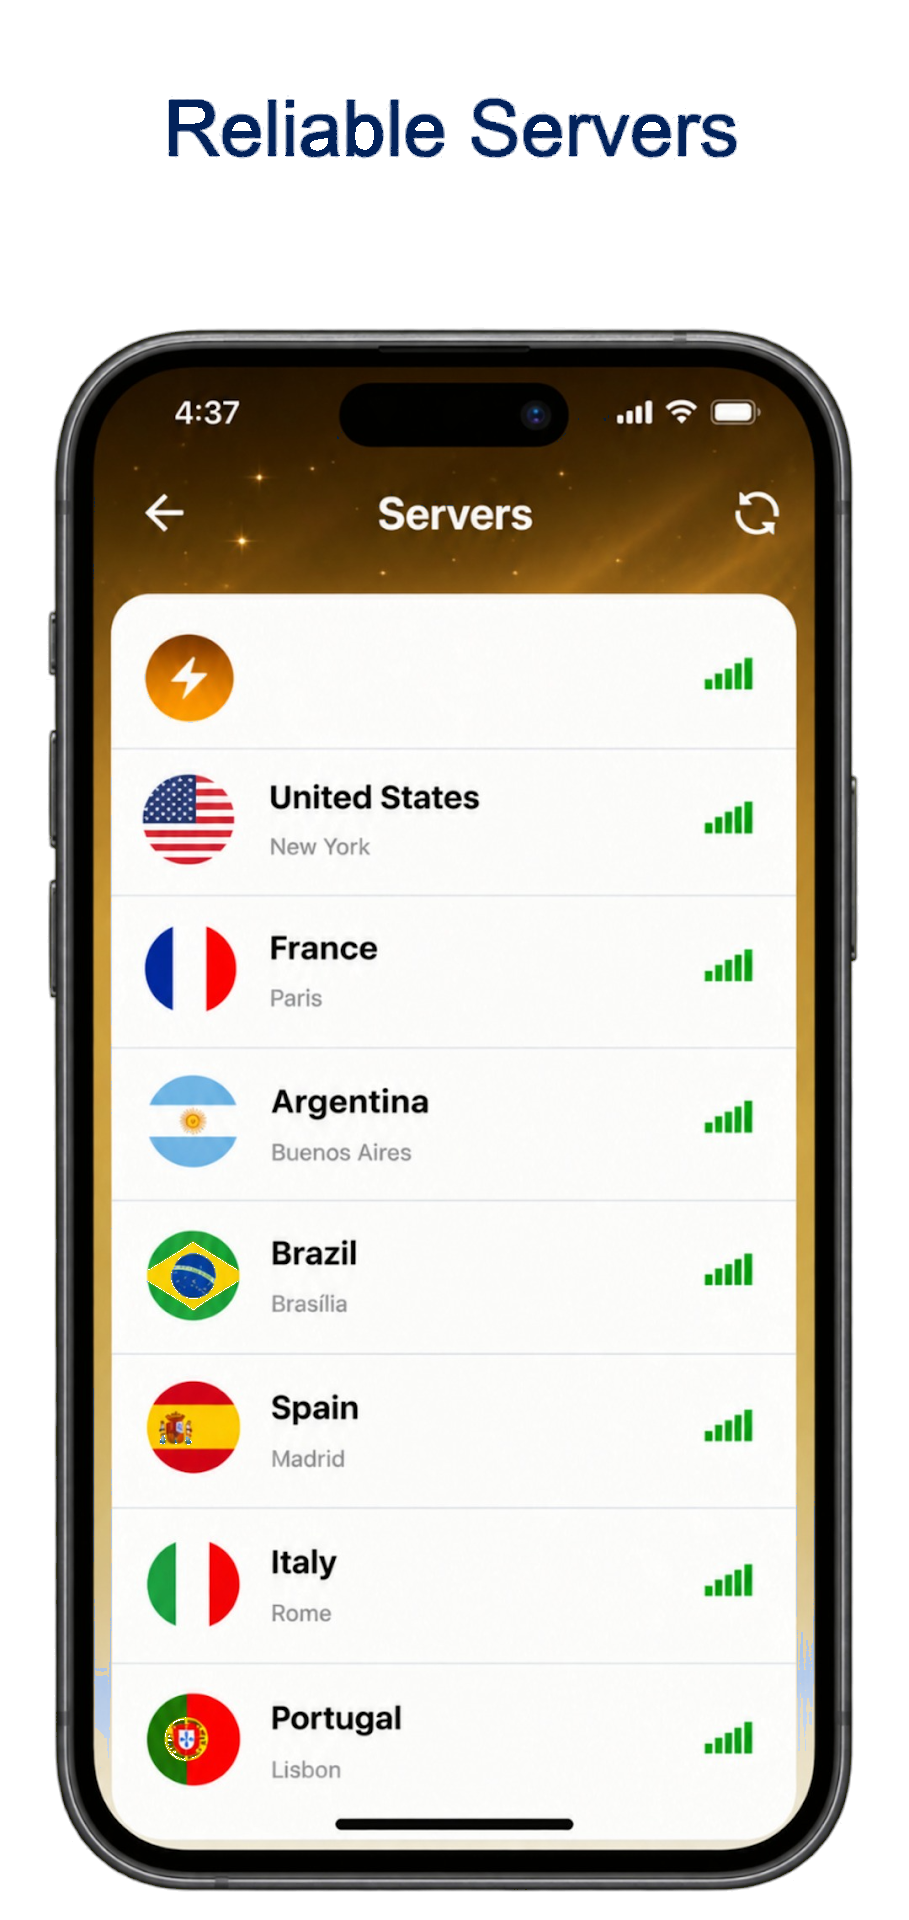
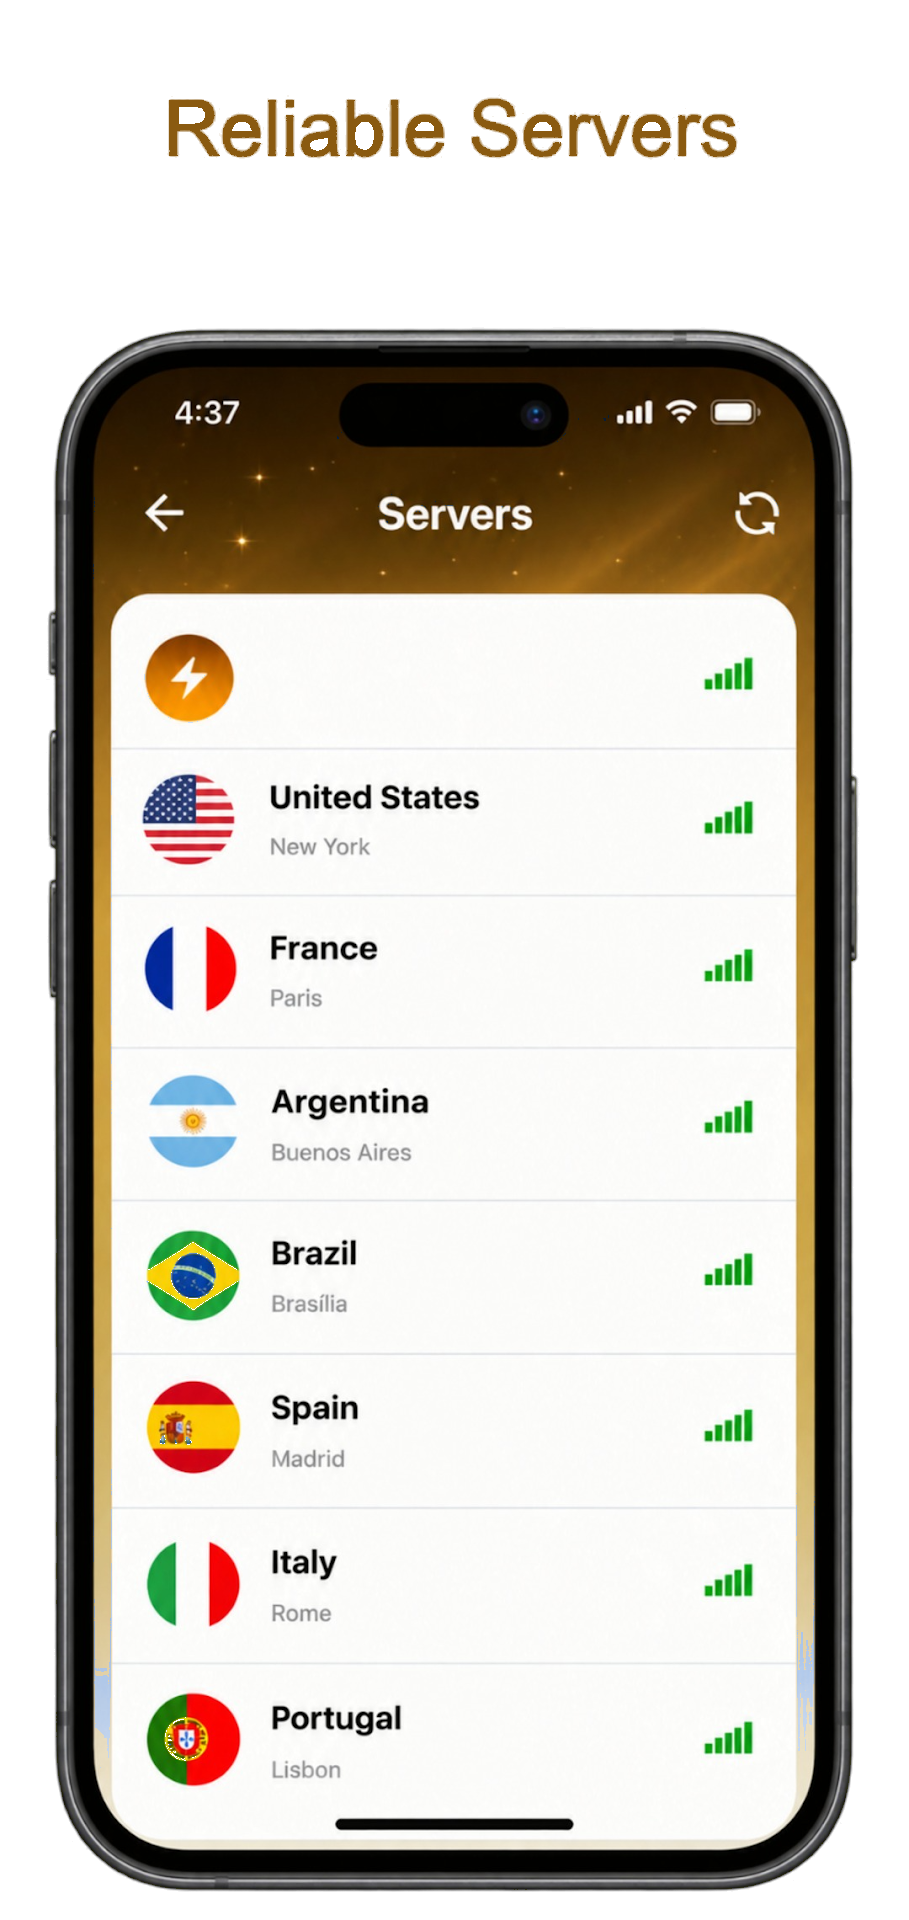
color updated

Changed region(s): [[0.1848, 0.0312, 0.4928, 0.0938], [0.5237, 0.0312, 0.8317, 0.0938]]

diff --git a/css/style.css b/css/style.css
@@ -1,14 +1,17 @@
 @import url("https://fonts.googleapis.com/css?family=Lora:400,400i|Open+Sans:300,400,600,700,800");
 
 :root {
-  --primary: #2e7eed;
-  --primary-dark: #1d6ad4;
-  --ink: #000;
-  --muted: #808080;
-  --line: #eeeeee;
-  --paper: #fff;
-  --gray: #fafafa;
-  --footer: #1a1b1f;
+  --primary: #e39b12;
+  --primary-dark: #c4840a;
+  --on-primary: #141313;
+  --link: #8a5a10;
+  --ink: #141313;
+  --muted: #6f675f;
+  --line: #efe6d6;
+  --paper: #fffdf8;
+  --gray: #f7f1e6;
+  --footer: #12100e;
+  --tint: #f8edd4;
   --shadow: 0 7px 20px 0 rgba(0, 0, 0, 0.08);
   --header-h: 78px;
   --font: "Open Sans", "Segoe UI", sans-serif;
@@ -28,7 +31,7 @@ body {
 }
 img, svg { max-width: 100%; display: block; }
 a { color: inherit; text-decoration: none; }
-a:hover { color: var(--primary); }
+a:hover { color: var(--link); }
 button, input, select, textarea { font: inherit; }
 button { cursor: pointer; }
 h1, h2, h3, h4, h5, h6 {
@@ -91,8 +94,8 @@ ul { margin: 0; padding: 0; list-style: none; }
 }
 .nav-links > li > a:hover,
 .nav-links > li > button:hover,
-.nav-links > li > a.active { color: var(--primary); }
-.nav-links > li > a.active { box-shadow: inset 0 2px 0 var(--primary); }
+.nav-links > li > a.active { color: var(--link); }
+.nav-links > li > a.active { box-shadow: inset 0 2px 0 var(--link); }
 .caret { font-size: 0.7em; margin-left: 4px; }
 .pill {
   border: 1px solid #e6e6e6 !important;
@@ -121,7 +124,7 @@ ul { margin: 0; padding: 0; list-style: none; }
   font-size: 13px;
   font-weight: 600;
 }
-.dropdown a:hover { color: var(--primary); background: transparent; }
+.dropdown a:hover { color: var(--link); background: transparent; }
 .mega {
   display: none;
   width: min(760px, 78vw);
@@ -162,7 +165,7 @@ ul { margin: 0; padding: 0; list-style: none; }
   width: 200%;
   height: 200%;
   border-radius: 50%;
-  background-image: linear-gradient(45deg, #009ec5 0%, #2e7eed 20%, #02225b 50%);
+  background-image: linear-gradient(45deg, #e39b12 0%, #6a3e08 18%, #14110e 52%);
   z-index: 0;
 }
 .hero::before { animation: hero-drift 32s ease-in-out infinite alternate; }
@@ -176,7 +179,7 @@ ul { margin: 0; padding: 0; list-style: none; }
   height: 52vw;
   border-radius: 50%;
   pointer-events: none;
-  background: radial-gradient(circle, rgba(0, 158, 197, 0.42), rgba(46, 126, 237, 0) 68%);
+  background: radial-gradient(circle, rgba(227, 155, 18, 0.48), rgba(106, 62, 8, 0) 68%);
   animation: glow-drift 16s ease-in-out infinite alternate;
 }
 .hero-routes {
@@ -257,11 +260,11 @@ ul { margin: 0; padding: 0; list-style: none; }
   align-items: center;
   justify-content: center;
   background: var(--primary);
-  color: #fff;
+  color: var(--on-primary);
 }
-.btn:hover { background: var(--primary-dark); color: #fff; }
-.btn-ghost { background: #fff; color: var(--primary); border: 1px solid var(--primary); }
-.btn-ghost:hover { background: #f3f8ff; color: var(--primary); }
+.btn:hover { background: var(--primary-dark); color: var(--on-primary); }
+.btn-ghost { background: #fff; color: var(--link); border: 1px solid var(--link); }
+.btn-ghost:hover { background: var(--tint); color: var(--link); }
 .signup-row .btn { border-radius: 0; min-width: 160px; }
 .fine, .form-error { font-size: 13px; }
 .fine { color: rgba(255, 255, 255, 0.8); margin-top: 10px; }
@@ -298,14 +301,14 @@ ul { margin: 0; padding: 0; list-style: none; }
   padding: 10px;
   box-shadow: 0 20px 40px rgba(0, 0, 0, 0.25);
 }
-.phone-ui { background: #16315f; border-radius: 18px; padding: 18px 12px; color: #fff; text-align: center; }
+.phone-ui { background: #24180c; border-radius: 18px; padding: 18px 12px; color: #fff; text-align: center; }
 .phone-ui strong { font-weight: 600; }
 .toggle {
   margin: 14px auto;
   width: 74px;
   height: 32px;
   border-radius: 999px;
-  background: #2e7eed;
+  background: var(--primary);
   display: flex;
   align-items: center;
   justify-content: flex-end;
@@ -320,7 +323,7 @@ ul { margin: 0; padding: 0; list-style: none; }
 .os-row a { color: rgba(255,255,255,0.9); display: grid; justify-items: center; gap: 4px; font-size: 11px; }
 .os-row a:hover { color: #fff; }
 .os-row svg { width: 26px; height: 26px; }
-.os-row.dark a { color: #808080; }
+.os-row.dark a { color: var(--muted); }
 .os-row.dark { justify-content: flex-start; }
 
 .seen { background: #fff; padding: 28px 0 8px; text-align: center; }
@@ -335,7 +338,7 @@ ul { margin: 0; padding: 0; list-style: none; }
 .why-grid, .plan-grid, .review-grid, .card-grid, .post-grid { display: grid; gap: 24px; }
 .why-grid { grid-template-columns: repeat(4, 1fr); margin-top: 10px; text-align: center; }
 .why-grid p, .muted, .kicker { color: var(--muted); }
-.icon-bubble { width: 72px; height: 72px; margin: 0 auto 8px; color: var(--primary); }
+.icon-bubble { width: 72px; height: 72px; margin: 0 auto 8px; color: var(--link); }
 .info-row { display: grid; grid-template-columns: 1fr 1fr; gap: 22px; margin-top: 48px; }
 .info-card {
   background: #fff;
@@ -347,7 +350,7 @@ ul { margin: 0; padding: 0; list-style: none; }
   align-items: center;
 }
 .info-card h3 { margin-bottom: 6px; }
-.text-link { color: var(--primary); font-weight: 600; }
+.text-link { color: var(--link); font-weight: 600; }
 .text-link:hover { color: var(--primary-dark); }
 .links-inline { display: flex; flex-wrap: wrap; gap: 8px 14px; }
 .play {
@@ -362,7 +365,7 @@ ul { margin: 0; padding: 0; list-style: none; }
 .perk-grid { display: grid; grid-template-columns: repeat(5, 1fr); gap: 22px 12px; }
 .perk-grid.three { grid-template-columns: repeat(3, minmax(140px, 220px)); justify-content: center; margin-top: 22px; }
 .perk { display: grid; justify-items: center; gap: 8px; font-weight: 600; color: #333; font-size: 14px; }
-.perk svg { width: 36px; height: 36px; color: var(--primary); }
+.perk svg { width: 36px; height: 36px; color: var(--link); }
 .perk-form { max-width: 560px; margin: 32px auto 0; }
 .perks .fine { color: var(--muted); }
 
@@ -383,9 +386,9 @@ ul { margin: 0; padding: 0; list-style: none; }
 .map-card svg { width: 100%; height: auto; }
 .device-cluster { position: relative; min-height: 280px; }
 .green-laptop, .mini-phone, .tower, .pad { position: absolute; border-radius: 8px; box-shadow: var(--shadow); }
-.green-laptop { width: 320px; height: 190px; left: 30px; top: 40px; background: #2e7eed; display: grid; place-items: center; color: #fff; }
+.green-laptop { width: 320px; height: 190px; left: 30px; top: 40px; background: var(--primary); display: grid; place-items: center; color: var(--on-primary); }
 .lock-screen { text-align: center; font-weight: 600; }
-.mini-phone { width: 90px; height: 160px; left: 0; top: 80px; background: #16315f; color: #fff; padding: 10px; font-size: 12px; }
+.mini-phone { width: 90px; height: 160px; left: 0; top: 80px; background: #24180c; color: #fff; padding: 10px; font-size: 12px; }
 .tower { width: 64px; height: 160px; right: 70px; top: 30px; background: linear-gradient(#fff, #ececec); }
 .pad { width: 100px; height: 64px; right: 24px; bottom: 30px; background: #f7f7f7; border: 6px solid #e5e5e5; }
 
@@ -400,7 +403,7 @@ ul { margin: 0; padding: 0; list-style: none; }
 .review-grid { grid-template-columns: repeat(3, 1fr); margin-top: 20px; }
 .review-card { background: #fff; border-radius: 4px; box-shadow: var(--shadow); padding: 20px; min-height: 180px; display: flex; flex-direction: column; }
 .review-top { display: flex; justify-content: space-between; font-weight: 600; color: #161616; }
-.stars { color: var(--primary); letter-spacing: 2px; }
+.stars { color: var(--link); letter-spacing: 2px; }
 .review-card p { flex: 1; font-family: var(--serif); font-style: italic; color: #888; }
 .who { font-size: 14px; color: #161616; }
 .reviews .text-link { display: inline-block; margin-top: 22px; }
@@ -418,14 +421,14 @@ ul { margin: 0; padding: 0; list-style: none; }
 .price-card { background: #fff; border-radius: 4px; box-shadow: var(--shadow); text-align: center; padding: 28px 22px; position: relative; }
 .badge {
   position: absolute; top: -12px; left: 50%; transform: translateX(-50%);
-  background: var(--primary); color: #fff; font-size: 11px; letter-spacing: 0.08em;
+  background: var(--primary); color: var(--on-primary); font-size: 11px; letter-spacing: 0.08em;
   padding: 5px 10px; border-radius: 3px; font-weight: 700;
 }
-.amount { font-size: 48px; font-weight: 300; color: var(--primary); line-height: 1; }
+.amount { font-size: 48px; font-weight: 300; color: var(--link); line-height: 1; }
 .per { color: #999; letter-spacing: 0.08em; font-size: 12px; font-weight: 700; margin: 6px 0 14px; }
 .price-card hr { border: 0; border-top: 1px solid var(--line); }
 .was { color: #aaa; text-decoration: line-through; }
-.now { color: var(--primary); font-weight: 700; }
+.now { color: var(--link); font-weight: 700; }
 .price-card .btn { width: min(200px, 100%); margin-top: 16px; }
 .price-card.span { grid-column: 1 / -1; width: min(340px, 100%); justify-self: center; }
 .deco { display: none; }
@@ -437,7 +440,7 @@ ul { margin: 0; padding: 0; list-style: none; }
 .site-footer a:hover { color: #fff; }
 .legal-row {
   display: flex; justify-content: space-between; gap: 16px; flex-wrap: wrap;
-  border-top: 1px solid #2c2d31; margin-top: 28px; padding-top: 16px; align-items: center;
+  border-top: 1px solid #2a241c; margin-top: 28px; padding-top: 16px; align-items: center;
 }
 .pays { display: flex; gap: 8px; flex-wrap: wrap; margin-top: 8px; }
 .pays span { background: #3f3f43; color: #fff; border-radius: 3px; padding: 4px 8px; font-size: 12px; font-weight: 700; }
@@ -446,22 +449,22 @@ ul { margin: 0; padding: 0; list-style: none; }
 .chat-launcher {
   position: fixed; right: 18px; bottom: 18px; z-index: 45;
   width: 54px; height: 54px; border-radius: 50%; border: 0;
-  background: var(--primary); color: #fff; font-size: 22px;
-  box-shadow: 0 8px 18px rgba(46, 126, 237, 0.35);
+  background: var(--primary); color: var(--on-primary); font-size: 22px;
+  box-shadow: 0 8px 18px rgba(227, 155, 18, 0.35);
 }
 .chat-panel {
   position: fixed; right: 18px; bottom: 84px; width: min(340px, calc(100% - 24px));
   background: #fff; border-radius: 4px; box-shadow: var(--shadow); z-index: 45; overflow: hidden;
 }
 .chat-panel header, .modal-card header { display: flex; justify-content: space-between; align-items: center; }
-.chat-panel header { background: #1a1b1f; color: #fff; padding: 12px 14px; }
+.chat-panel header { background: var(--footer); color: #fff; padding: 12px 14px; }
 .chat-panel header button, #video-close { background: transparent; border: 0; color: inherit; font-size: 20px; }
 .chat-log { padding: 12px; display: grid; gap: 8px; max-height: 260px; overflow: auto; }
 .bubble { background: var(--gray); border-radius: 4px; padding: 8px 10px; color: #333; }
-.bubble.me { background: #e7f1ff; justify-self: end; }
+.bubble.me { background: var(--tint); justify-self: end; }
 .chat-form { display: flex; border-top: 1px solid var(--line); }
 .chat-form input { flex: 1; border: 0; padding: 12px; outline: none; }
-.chat-form button { border: 0; background: var(--primary); color: #fff; padding: 0 14px; font-weight: 700; }
+.chat-form button { border: 0; background: var(--primary); color: var(--on-primary); padding: 0 14px; font-weight: 700; }
 .cookie {
   position: fixed; right: 18px; bottom: 84px; z-index: 44;
   width: min(320px, calc(100% - 32px));
@@ -473,7 +476,7 @@ ul { margin: 0; padding: 0; list-style: none; }
 .modal-card { background: #fff; width: min(680px, 100%); padding: 22px; border-radius: 4px; }
 .steps { display: grid; grid-template-columns: repeat(3, 1fr); gap: 12px; margin-top: 12px; }
 .step { background: var(--gray); padding: 14px; min-height: 130px; }
-.step strong { color: var(--primary); display: block; margin-bottom: 6px; }
+.step strong { color: var(--link); display: block; margin-bottom: 6px; }
 
 .block { padding: 70px 0; }
 .block.alt, .auth-wrap { background: var(--gray); }
@@ -483,7 +486,7 @@ ul { margin: 0; padding: 0; list-style: none; }
 .card, .post, .tool, .req, .auth-card {
   background: #fff; border-radius: 4px; box-shadow: var(--shadow); padding: 20px;
 }
-.post a { color: var(--primary); font-weight: 700; }
+.post a { color: var(--link); font-weight: 700; }
 table { width: 100%; border-collapse: collapse; background: #fff; }
 th, td { text-align: left; padding: 12px 14px; border-bottom: 1px solid var(--line); color: #444; }
 th { background: var(--gray); color: #000; font-weight: 600; }
@@ -508,7 +511,7 @@ textarea { min-height: 120px; resize: vertical; }
 .dash { grid-template-columns: 240px 1fr; align-items: start; }
 .side { background: var(--gray); padding: 16px; }
 .side a { display: block; padding: 8px; font-weight: 600; }
-.side a.active, .side a:hover { color: var(--primary); }
+.side a.active, .side a:hover { color: var(--link); }
 .stat-row { display: grid; grid-template-columns: repeat(3, 1fr); gap: 12px; }
 .stat { background: var(--gray); padding: 14px; }
 .stat b { display: block; font-size: 28px; font-weight: 300; color: #000; }
@@ -517,15 +520,15 @@ textarea { min-height: 120px; resize: vertical; }
 .filters { margin: 8px 0 10px; }
 .filters button { display: inline-flex; align-items: center; gap: 6px; border: 1px solid #e5e5e5; background: #fff; border-radius: 3px; padding: 8px 14px; }
 .filter-ico { width: 16px; height: 16px; flex: 0 0 auto; }
-.filters button.on { background: var(--primary); color: #fff; border-color: var(--primary); }
-.filters button:focus-visible { outline: 2px solid var(--primary); outline-offset: 2px; }
+.filters button.on { background: var(--primary); color: var(--on-primary); border-color: var(--primary); }
+.filters button:focus-visible { outline: 2px solid var(--link); outline-offset: 2px; }
 .filter-status { margin: 0 0 16px; color: var(--muted); font-size: 14px; }
 .plat-icon {
   width: 44px;
   height: 44px;
   border-radius: 8px;
-  background: #e7f1ff;
-  color: var(--primary);
+  background: var(--tint);
+  color: var(--link);
   display: grid;
   place-items: center;
   flex: 0 0 auto;
@@ -551,7 +554,7 @@ textarea { min-height: 120px; resize: vertical; }
 .device-pick p { margin: 0; }
 .device-pick .btn { justify-self: end; align-self: center; }
 .device-alt { margin-top: 8px !important; }
-.device-alt a { color: var(--primary); font-weight: 700; }
+.device-alt a { color: var(--link); font-weight: 700; }
 .card-grid .card { display: flex; flex-direction: column; align-items: flex-start; }
 .card[hidden] { display: none !important; }
 .card-grid .card .btn { margin-top: auto; }
@@ -561,8 +564,8 @@ textarea { min-height: 120px; resize: vertical; }
   margin-bottom: 8px;
   padding: 2px 8px;
   border-radius: 3px;
-  background: #e7f1ff;
-  color: var(--primary);
+  background: var(--tint);
+  color: var(--link);
   font-size: 11px;
   font-weight: 700;
   letter-spacing: 0.06em;

diff --git a/index.html b/index.html
@@ -22,12 +22,12 @@
           <path d="M-20 430C240 360 420 520 700 450s390-40 760 80"/>
           <path d="M160 620C360 480 520 500 760 390s300-20 620-90"/>
         </g>
-        <g fill="none" stroke="#e7f4ff" stroke-width="2.2" stroke-linecap="round">
+        <g fill="none" stroke="#f6e2b8" stroke-width="2.2" stroke-linecap="round">
           <path class="packet" pathLength="1000" d="M-40 150C180 90 340 230 560 170s360-150 920 20"/>
           <path class="packet delay-a" pathLength="1000" d="M-20 430C240 360 420 520 700 450s390-40 760 80"/>
           <path class="packet delay-b" pathLength="1000" d="M160 620C360 480 520 500 760 390s300-20 620-90"/>
         </g>
-        <g fill="#fff">
+        <g fill="#f6e2b8">
           <circle class="node" cx="250" cy="128" r="3.2"/>
           <circle class="node delay-a" cx="560" cy="170" r="3.6"/>
           <circle class="node delay-b" cx="980" cy="118" r="3"/>
